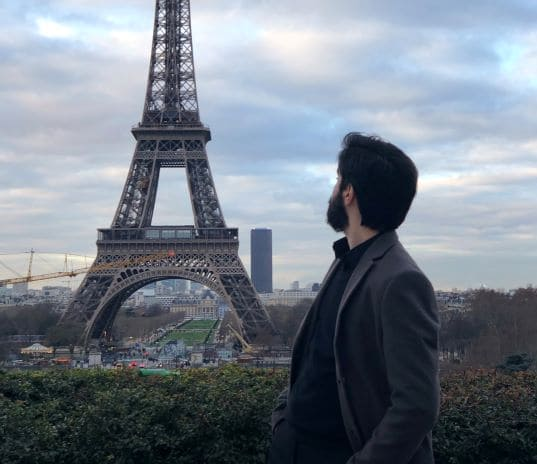
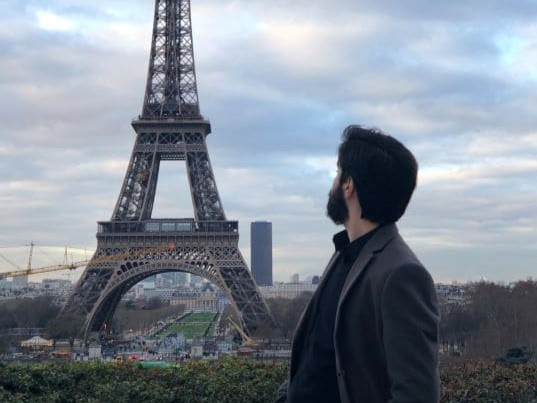
Update images and how they are loaded (#12)
* Update portraits  to new images

* Fix left panel height on mid-screens

* Improve image loader scripts randomness

Make sure it is able to display the full circle of images
by mentaining existing images in an array

* Reimplement photo carousel

Move all logic in react component
Add special hook for lazy loading images (small + large)
Remove references to previous libs

* Fix image-related warnings

diff --git a/src/app/components/shared/portrait-carousel/PortraitCarousel.tsx b/src/app/components/shared/portrait-carousel/PortraitCarousel.tsx
@@ -1,0 +1,78 @@
+import { FC, useEffect, useState, useCallback } from 'react';
+import { useLazyBackgroundImage } from '@/app/hooks/useLazyBackgroundImage';
+import './PortraitCarousel.css';
+
+interface PortraitCarouselProps {
+    children: React.ReactNode
+};
+
+const imagesArray = [
+    1,
+    2,
+    3,
+    4,
+    5,
+    6,
+    7,
+    8,
+    9,
+    10,
+    11,
+    12,
+    13,
+    14,
+    15
+];
+let usedImageIndexes: number[] = [];
+const intervalChangeMs = 10000;
+const initialImageIndex = 6;
+
+const PortraitCarousel: FC<PortraitCarouselProps> = ({ children }) => {
+
+    const [currentImageIndex, setCurrentImageIndex] = useState(imagesArray[initialImageIndex]);
+
+    const setNextImage = useCallback(() => {
+        if (usedImageIndexes.length >= imagesArray.length) {
+            usedImageIndexes = [];
+        }
+
+        let randomImageId = currentImageIndex;
+        while (true) {
+            randomImageId = Math.floor(Math.random() * imagesArray.length);
+            if (usedImageIndexes.indexOf(randomImageId) === -1)
+                break;
+        }
+        usedImageIndexes.push(randomImageId);
+        setCurrentImageIndex(imagesArray[randomImageId]);
+    }, [currentImageIndex]);
+
+    useEffect(() => {
+        if (!imagesArray || imagesArray.length === 0) {
+            console.warn("No images available for changing.");
+            return;
+        }
+
+        const intervalId = setInterval(setNextImage, intervalChangeMs);
+
+        // Cleanup function to clear the interval when component unmounts
+        return () => clearInterval(intervalId);
+    }, [setNextImage]); // Only setNextImage as dependency since other values are constants
+
+    const { backgroundStyle, isLoaded } = useLazyBackgroundImage({
+        smallSrc: `img/portraits/portrait${currentImageIndex}_small.jpeg`,
+        fullSrc: `img/portraits/portrait${currentImageIndex}.jpeg`
+    });
+
+    return (
+        <>
+            <div
+                className={`banner ${isLoaded ? 'loaded' : ''}`}
+                style={backgroundStyle}
+            >
+                {children}
+            </div>
+        </>
+    );
+};
+
+export default PortraitCarousel;

diff --git a/public/js/loader.js b/public/js/loader.js
@@ -1,11 +1,3 @@
-/* Initializers */
-var imagesAvailable = 6;
-var currentImage = 6;
-var lazyLoadInstance = new LazyLoad({
-    elements_selector: ".lazy"
-    // ... more custom settings?
-});
-
 var pluginspreparer = function () {
     "use strict";
 
@@ -23,53 +15,12 @@ var pluginspreparer = function () {
     } else {
         $(window).on("load", onLoadHandler);
     }
-    
-    startChangingImages();
 };
 
 function afterLoadedDissapears() {
     $("body").addClass("scrollbar");
     $("body").addClass("scyan");
-    $('[data-toggle="tooltip"]').tooltip(); //enable tooltips
-    
-    setChangingInterval();
-}
+    $('[data-toggle="tooltip"]').tooltip(); //enable tooltips    
+};
+
 $(pluginspreparer);
-
-function initializeImageLoad() {
-
-}
-
-function startChangingImages() {
-    changeImage(currentImage, true);
-}
-
-function setChangingInterval() {
-    let intrvl = setInterval(() => {
-        var randomImageId = currentImage;
-        while(true) {
-            randomImageId = Math.floor(Math.random() * imagesAvailable + 1);
-            if (randomImageId !== currentImage)
-                break;
-        }
-        currentImage = randomImageId;
-        changeImage(randomImageId);
-    }, 7000);
-}
-
-function changeImage(randomImageId, direct) {
-    let divContent = "<div class='lazy lazy" + randomImageId + "' data-src='img/portraits/portrait" + randomImageId + ".png' style='background-image:url(img/portraits/portrait" + randomImageId + ".png)'></div>"
-    $(".hidden-images").html(divContent);
-
-    setTimeout(() => {
-        $(".banner").fadeOut(200, function() {
-            $(".banner").css("background-image", "url(img/portraits/portrait" + randomImageId + "_small.jpeg)");
-            $(".banner").attr("data-src", $(".lazy" + randomImageId).attr("data-src"));
-            $(".banner").attr("data-was-processed", false);
-
-            if (lazyLoadInstance) {
-                lazyLoadInstance.update();
-            }
-        }).fadeIn(200);
-    }, direct ? 100 : 6000);
-}

diff --git a/src/app/hooks/useLazyBackgroundImage.ts b/src/app/hooks/useLazyBackgroundImage.ts
@@ -1,0 +1,55 @@
+import { useEffect, useState } from 'react';
+
+interface UseLazyBackgroundImageProps {
+    smallSrc: string;
+    fullSrc: string;
+    threshold?: number;
+}
+
+const preloadImage = (src: string): Promise<HTMLImageElement> => {
+    return new Promise((resolve, reject) => {
+        const img = new Image();
+        img.src = src;
+        img.onload = () => resolve(img);
+        img.onerror = reject;
+    });
+};
+
+export const useLazyBackgroundImage = ({ 
+    smallSrc, 
+    fullSrc
+}: UseLazyBackgroundImageProps) => {
+    const [images, setImages] = useState<{ small?: HTMLImageElement; full?: HTMLImageElement }>({});
+    const [isLoaded, setIsLoaded] = useState(false);
+
+    // Load small image immediately
+    useEffect(() => {
+        setIsLoaded(false);
+        preloadImage(smallSrc).then(img => {
+            setImages({ small: img });
+        });
+    }, [smallSrc]);
+
+    // Trigger full image load immediately
+    useEffect(() => {
+        const loadFullImage = async () => {
+            try {
+                const img = await preloadImage(fullSrc);
+                setImages(prev => ({ ...prev, full: img }));
+                setIsLoaded(true);
+            } catch (error) {
+                console.error('Failed to load full image:', error);
+            }
+        };
+
+        loadFullImage();
+    }, [images.small, fullSrc]);
+
+    const currentImage = images.full ?? images.small;
+    const backgroundStyle = currentImage ? {
+        backgroundImage: `url(${currentImage.src})`,
+        imageType: images.full ? 'full' : 'small'
+    } : {};
+
+    return { backgroundStyle, isLoaded };
+};

diff --git a/src/app/components/sections/home/HomeSection.tsx b/src/app/components/sections/home/HomeSection.tsx
@@ -1,6 +1,7 @@
 import { FC } from 'react';
 import SocialLinks, { SocialLinksProps } from './SocialLinks';
 import Loves, { LovesEntry } from './Loves';
+import PortraitCarousel from '../../shared/portrait-carousel/PortraitCarousel';
 
 interface HomeSectionProps {
   loves: LovesEntry[],
@@ -10,7 +11,7 @@ interface HomeSectionProps {
 const HomeSection: FC<HomeSectionProps> = (props) => {
   return (
     <section className="content backgrounded" id="home">
-      <div className="banner lazy">
+      <PortraitCarousel>
         <div className="caption-info">
           <div className="container">
             <div className="row">
@@ -24,7 +25,7 @@ const HomeSection: FC<HomeSectionProps> = (props) => {
             </div>
           </div>
         </div>
-      </div>
+      </PortraitCarousel>
     </section>
   );
 };

diff --git a/public/css/style.css b/public/css/style.css
@@ -444,38 +444,6 @@ a.mobile-menu-opener:hover {
 	opacity: 1;
 }
 
-.banner {
-	width: 100%;
-	float: left;
-	height: 1000px;
-	position: relative;
-	-webkit-background-size: cover;
-	-moz-background-size: cover;
-	background-size: cover;
-	background-repeat: no-repeat;
-	background-position: 50% 30%;
-	background-color: black;
-}
-
-.banner::before {
-	width: 100%;
-	height: 100%;
-	;
-	position: absolute;
-	content: '';
-	left: 0;
-	top: 0;
-	background: rgba(0, 0, 0, 0.5);
-}
-
-.hidden-images.hidden {
-	display: none;
-}
-
-.hidden-images.barely-visible {
-	visibility: hidden;
-}
-
 .caption-info {
 	position: absolute;
 	top: 50%;
@@ -609,7 +577,7 @@ b {
 {
 	.panel-box.basic-info-left,
 	.panel-box.basic-info-right {
-		min-height: 360px !important;
+		min-height: 510px !important;
 	}
 }
 

diff --git a/src/app/components/layout/Header.tsx b/src/app/components/layout/Header.tsx
@@ -1,5 +1,6 @@
 import { FC } from 'react';
 import Link from 'next/link';
+import Image from 'next/image';
 
 const Header: FC = () => {
   return (
@@ -10,7 +11,13 @@ const Header: FC = () => {
       <nav className="navbar navbar-default navbar-static-top">
         <div className="logo">
           <Link href="/" className="navbar-brand">
-            <img src="/img/logos/logo2.png" alt="Logo" />
+            <Image
+              src="/img/logos/logo2.png"
+              alt="Logo"
+              width={190}
+              height={190}
+              style={{ position: 'static' }}
+            />
           </Link>
         </div>
         <div id="navbar" style={{ textAlign: 'center' }}>

diff --git a/src/app/components/shared/portrait-carousel/PortraitCarousel.css b/src/app/components/shared/portrait-carousel/PortraitCarousel.css
@@ -1,0 +1,30 @@
+.banner {
+    width: 100%;
+    float: left;
+    height: 1000px;
+    position: relative;
+    -webkit-background-size: cover;
+    -moz-background-size: cover;
+    background-size: cover;
+    background-repeat: no-repeat;
+    background-position: 50% 30%;
+    background-color: black;
+}
+
+.banner::before {
+    width: 100%;
+    height: 100%;
+    ;
+    position: absolute;
+    content: '';
+    left: 0;
+    top: 0;
+    background: rgba(0, 0, 0, 1);
+    opacity: 0.6;
+    transition: opacity 0.5s ease-in-out;
+    will-change: opacity;
+}
+
+.banner.loaded::before {
+    opacity: 0.5;
+}

diff --git a/src/app/page.tsx b/src/app/page.tsx
@@ -27,7 +27,6 @@ const loadScript = (src: string) => {
 const scriptUrls = [
   "https://cdnjs.cloudflare.com/ajax/libs/jquery/2.1.4/jquery.min.js",
   "https://cdnjs.cloudflare.com/ajax/libs/lodash.js/4.17.4/lodash.min.js",
-  "https://cdn.jsdelivr.net/npm/vanilla-lazyload@11.0.6/dist/lazyload.min.js",
   "https://cdnjs.cloudflare.com/ajax/libs/twitter-bootstrap/3.3.6/js/bootstrap.min.js",
   "https://cdnjs.cloudflare.com/ajax/libs/jquery-easing/1.3/jquery.easing.min.js",
   "https://cdnjs.cloudflare.com/ajax/libs/waypoints/2.0.3/waypoints.min.js",

diff --git a/src/app/app-client-layout.tsx b/src/app/app-client-layout.tsx
@@ -42,12 +42,6 @@ export default function AppClientLayout({ children }: ClientLayoutProps) {
                         </div>
                     </div>
                 </div>
-
-                <div className="hidden-images">
-                </div>
-                <div className="commercial-images">
-                    <img src="img/portraits/portrait4.png" alt="Marian Focsa CV" />
-                </div>
             </body>
         </>
     );

diff --git a/public/css/card.css b/public/css/card.css
@@ -1,8 +1,4 @@
 /* Taken and improved from https://codepen.io/choogoor/pen/YWBxAg @example-2 */
-#wrapper-1 {
-  background: url(../img/portfolio/change-notifier.jpg) center/cover no-repeat;
-}
-
 .wrapper::after,
 .wrapper .header::after,
 .wrapper .data::after {

diff --git a/src/app/components/sections/contact/ContactSection.tsx b/src/app/components/sections/contact/ContactSection.tsx
@@ -1,4 +1,4 @@
-import { FC, useState, FormEvent } from 'react';
+import { FC, useState } from 'react';
 
 declare global {
   interface Window {
